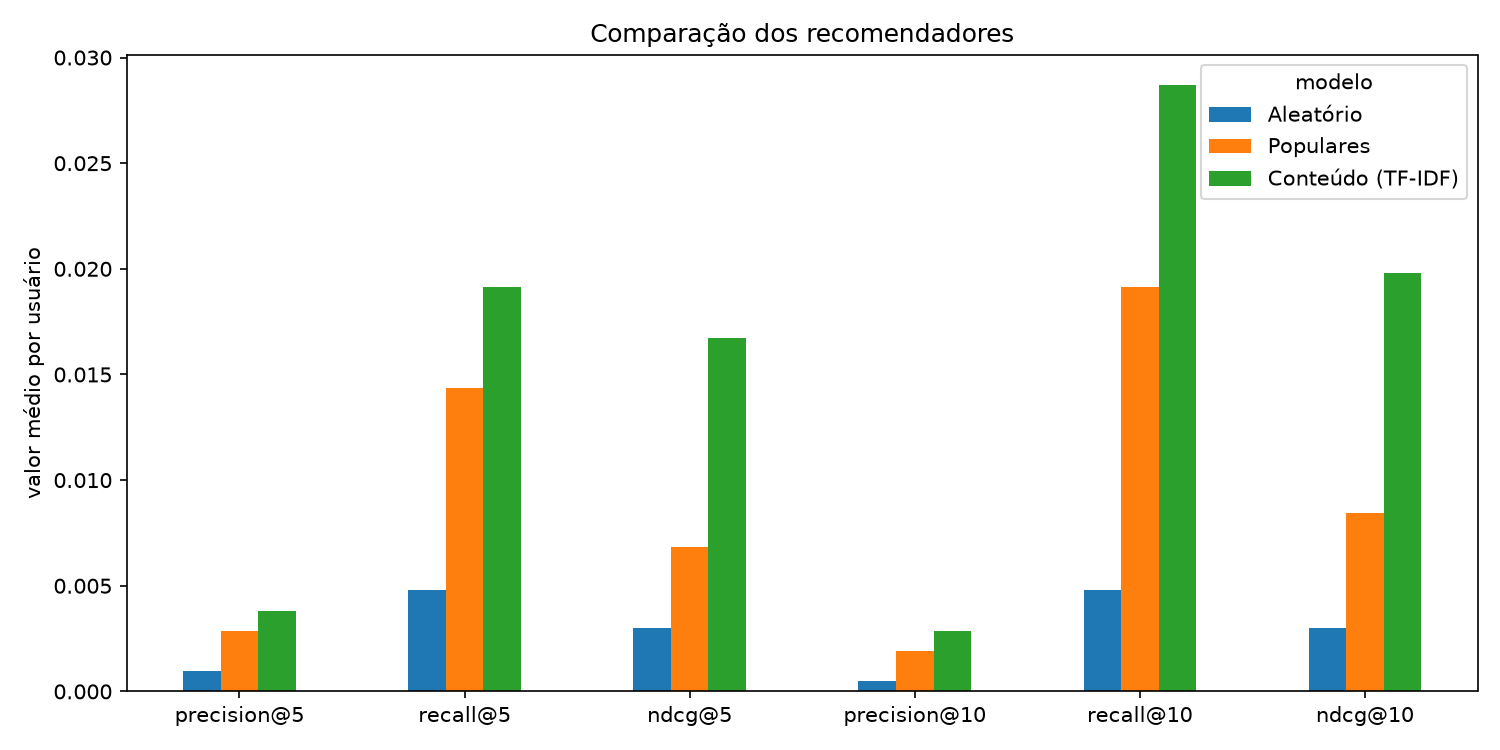
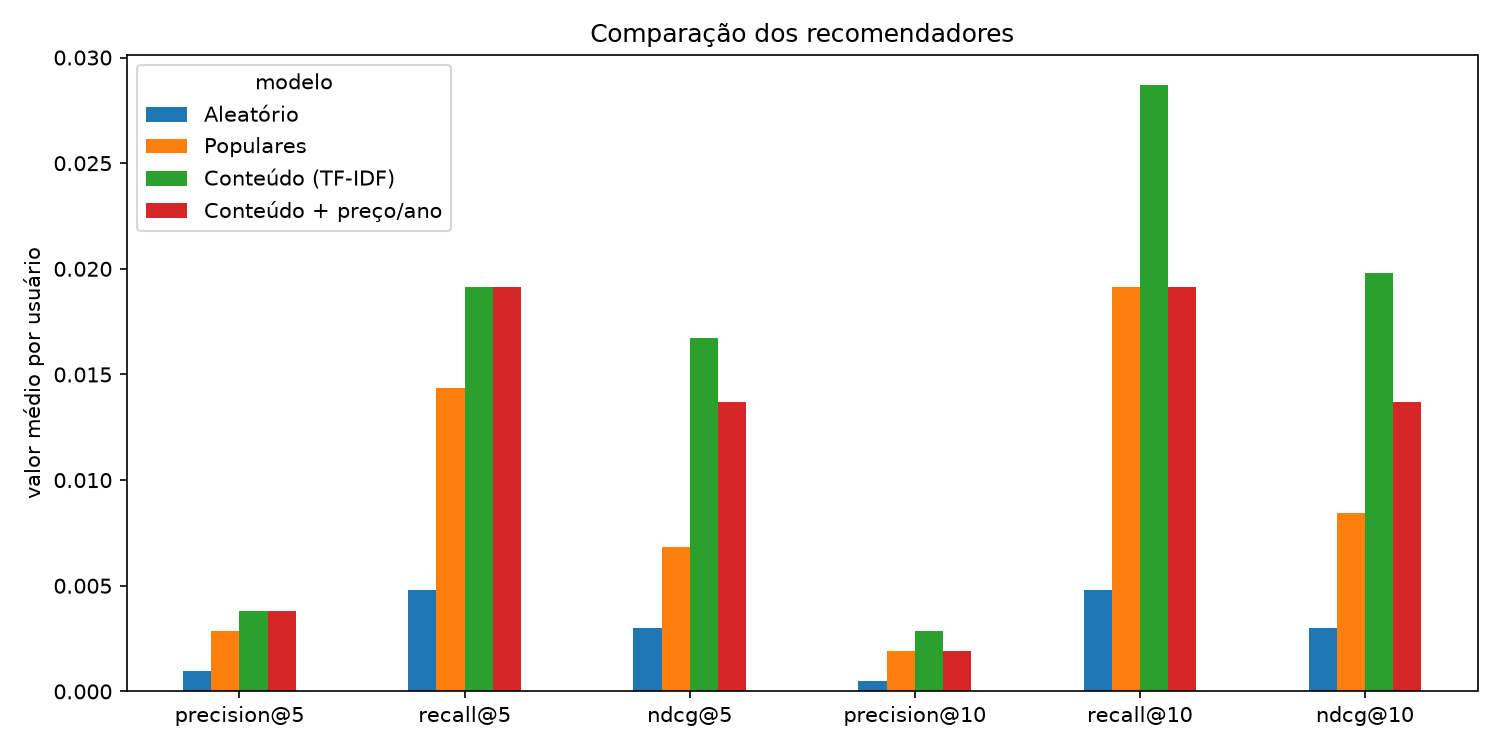
feat - atributos numéricos normalizados (preço e ano) como variante avaliada
- preço (log) e ano padronizados por z-score limitado a ±3, ausentes pela mediana
- peso escolhido em validação tirada do treino (scripts/escolher_peso.py), sem usar o teste
- variante "Conteúdo + preço/ano" entra na tabela e no bootstrap; modelo principal segue só texto e tags
- diversidade medida sempre com a similaridade do modelo principal
- explicação passa a considerar contribuições positivas de pesos negativos
- opção na interface para ligar a variante; testes em test_numericos.py

diff --git a/backend/app/recommender/modelo.py b/backend/app/recommender/modelo.py
@@ -45,6 +45,59 @@ def _termos(jogo):
     return termos
 
 
+# Atributos numéricos do próprio jogo. Nota e nº de avaliações ficam de fora:
+# vêm de outros usuários, e a FBC deve usar apenas características do item.
+ROTULOS_NUMERICOS = {"num:preco": "faixa de preço", "num:ano": "época de lançamento"}
+# O modelo principal usa só texto e tags (peso 0). A variante com preço/ano usa
+# o peso escolhido na validação (subdivisão do treino) por scripts/escolher_peso.py.
+PESO_NUMERICO = 0.0
+PESO_NUMERICO_VALIDADO = 12.0
+LIMITE_Z = 3.0
+
+
+def _ano(data):
+    try:
+        return float(str(data)[:4])
+    except ValueError:
+        return None
+
+
+def _numericos_brutos(jogo):
+    """Valores crus; None indica ausente. O preço usa log por ser muito assimétrico."""
+    preco = jogo.get("price_final")
+    try:
+        preco = math.log1p(max(0.0, float(preco))) if preco not in (None, "") else None
+    except (TypeError, ValueError):
+        preco = None
+    return {"num:preco": preco, "num:ano": _ano(jogo.get("date_release") or "")}
+
+
+def _padronizar(catalogo):
+    """Imputa ausentes com a mediana e aplica z-score limitado a ±LIMITE_Z.
+
+    O z-score é centrado: valores acima e abaixo da média têm sinais opostos,
+    então o cosseno favorece jogos do mesmo lado da média que o perfil, em vez
+    de favorecer sempre os mais caros ou mais novos (como faria um min-max).
+    """
+    brutos = {app_id: _numericos_brutos(jogo) for app_id, jogo in catalogo.items()}
+    padronizados = {app_id: {} for app_id in catalogo}
+    for atributo in ROTULOS_NUMERICOS:
+        presentes = sorted(v[atributo] for v in brutos.values() if v[atributo] is not None)
+        if len(presentes) < 2:
+            continue
+        mediana = presentes[len(presentes) // 2]
+        media = sum(presentes) / len(presentes)
+        desvio = math.sqrt(sum((x - media) ** 2 for x in presentes) / len(presentes))
+        if desvio == 0:
+            continue
+        for app_id, valores in brutos.items():
+            valor = valores[atributo] if valores[atributo] is not None else mediana
+            z = max(-LIMITE_Z, min(LIMITE_Z, (valor - media) / desvio))
+            if z:
+                padronizados[app_id][atributo] = z
+    return padronizados
+
+
 def _produto(a, b):
     if len(a) > len(b):
         a, b = b, a
@@ -52,7 +105,8 @@ def _produto(a, b):
 
 
 class RecomendadorConteudo:
-    def __init__(self, treino=None, catalogo=None, limite_catalogo=8000, ids_obrigatorios=()):
+    def __init__(self, treino=None, catalogo=None, limite_catalogo=8000, ids_obrigatorios=(),
+                 peso_numerico=PESO_NUMERICO):
         obrigatorios = set(treino["app_id"]) if treino is not None else set()
         obrigatorios.update(ids_obrigatorios)
         self.catalogo = catalogo if catalogo is not None else carregar_catalogo(limite_catalogo, obrigatorios)
@@ -71,6 +125,8 @@ class RecomendadorConteudo:
         for termos in contagens.values():
             df.update(termos.keys())
         total = len(contagens)
+        self.peso_numerico = peso_numerico
+        numericos = _padronizar(self.catalogo) if peso_numerico else {}
         self.vetores = {}
         self.indice = defaultdict(list)
         for app_id, termos in contagens.items():
@@ -78,6 +134,10 @@ class RecomendadorConteudo:
                 continue
             vetor = {termo: (1 + math.log(freq)) * (math.log((1 + total) / (1 + df[termo])) + 1)
                      for termo, freq in termos.items()}
+            # Dimensões numéricas entram no mesmo vetor antes da normalização L2,
+            # então o cosseno continua sendo um único produto escalar.
+            for atributo, z in numericos.get(app_id, {}).items():
+                vetor[atributo] = peso_numerico * z
             norma = math.sqrt(sum(peso * peso for peso in vetor.values()))
             vetor = {termo: peso / norma for termo, peso in vetor.items()}
             self.vetores[app_id] = vetor
@@ -118,13 +178,17 @@ class RecomendadorConteudo:
         positivos = [app_id for app_id, gostou in preferencias if gostou and app_id in self.vetores]
         for score, app_id in melhores:
             vetor = self.vetores[app_id]
-            contrib = sorted(((peso * vetor[termo], termo) for termo, peso in perfil.items()
-                              if peso > 0 and termo in vetor), reverse=True)
+            # Contribuição de cada termo ao cosseno; só as positivas explicam a recomendação.
+            contrib = sorted((par for par in ((peso * vetor[termo], termo) for termo, peso in perfil.items()
+                                              if termo in vetor) if par[0] > 0), reverse=True)
             tags = [self.tag_labels.get(termo, termo[4:]) for _, termo in contrib if termo.startswith("tag:")][:3]
             parecido = max(positivos, key=lambda item: self.similaridade(item, app_id)) if positivos else None
             resultados.append({"app_id": app_id, "score": round(score, 4),
                                "tags_em_comum": tags,
-                               "termos_em_comum": [termo for _, termo in contrib if not termo.startswith("tag:")][:3],
+                               "termos_em_comum": [termo for _, termo in contrib
+                                                   if not termo.startswith(("tag:", "num:"))][:3],
+                               "atributos_em_comum": [ROTULOS_NUMERICOS[termo] for _, termo in contrib
+                                                      if termo in ROTULOS_NUMERICOS],
                                "parecido_com": self.catalogo[parecido]["title"] if parecido else None,
                                **self.catalogo[app_id]})
         return resultados

diff --git a/scripts/escolher_peso.py b/scripts/escolher_peso.py
@@ -1,0 +1,65 @@
+"""Escolhe o peso dos atributos numéricos (preço e ano) sem olhar o teste.
+
+O treino do split temporal é dividido de novo, com o mesmo protocolo, em
+subtreino e validação. Cada peso é avaliado só na validação; o conjunto de
+teste usado em run_evaluation.py nunca entra nesta escolha.
+
+Uso: python scripts/escolher_peso.py [--pesos 0 3 5 8 12 16 24 32]
+Saída: results/escolha_peso.csv/.md
+"""
+
+import argparse
+from pathlib import Path
+import sys
+
+import pandas as pd
+
+RAIZ = Path(__file__).resolve().parent.parent
+sys.path.insert(0, str(RAIZ))
+
+from backend.app.evaluation.evaluator import avaliar  # noqa: E402
+from backend.app.evaluation.split import split_temporal  # noqa: E402
+from backend.app.recommender.catalogo import carregar_catalogo  # noqa: E402
+from backend.app.recommender.modelo import RecomendadorConteudo  # noqa: E402
+
+METRICAS = ["precision@10", "recall@10", "ndcg@10", "hit@10", "cobertura@10"]
+
+
+def main():
+    parser = argparse.ArgumentParser(description=__doc__, formatter_class=argparse.RawDescriptionHelpFormatter)
+    parser.add_argument("--pesos", type=float, nargs="+", default=[0, 3, 5, 8, 12, 16, 24, 32])
+    args = parser.parse_args()
+
+    caminho = RAIZ / "data" / "processed" / "interacoes.csv"
+    if not caminho.exists():
+        sys.exit("Execute scripts/prepare_data.py primeiro")
+    df = pd.read_csv(caminho, parse_dates=["date"])
+    catalogo = carregar_catalogo(8000, df["app_id"].unique())
+    df = df[df["app_id"].isin(catalogo)].reset_index(drop=True)
+
+    treino, _ = split_temporal(df)            # o teste é descartado aqui
+    subtreino, validacao = split_temporal(treino)
+    print(f"Subtreino: {len(subtreino)} linhas | Validação: {len(validacao)} linhas")
+
+    linhas = []
+    for peso in args.pesos:
+        modelo = RecomendadorConteudo(subtreino, catalogo=catalogo, peso_numerico=peso)
+        r = avaliar(modelo, subtreino, validacao, tamanho_catalogo=len(catalogo))
+        linhas.append({"peso_numerico": peso, **{m: r[m] for m in METRICAS},
+                       "usuarios_avaliados": r["usuarios_avaliados"]})
+        print(f"peso={peso:g}: " + ", ".join(f"{m}={r[m]:.4f}" for m in METRICAS))
+
+    tabela = pd.DataFrame(linhas)
+    pasta = RAIZ / "results"
+    pasta.mkdir(exist_ok=True)
+    tabela.to_csv(pasta / "escolha_peso.csv", index=False)
+    cabecalho = "| " + " | ".join(tabela.columns) + " |\n|" + " --- |" * len(tabela.columns) + "\n"
+    corpo = "".join("| " + " | ".join(f"{v:.4f}" if isinstance(v, float) else str(v) for v in linha) + " |\n"
+                    for linha in tabela.itertuples(index=False))
+    (pasta / "escolha_peso.md").write_text(cabecalho + corpo, encoding="utf-8")
+    melhor = tabela.sort_values(["ndcg@10", "peso_numerico"], ascending=[False, True]).iloc[0]
+    print(f"\nMaior nDCG@10 na validação: peso {melhor['peso_numerico']:g}")
+
+
+if __name__ == "__main__":
+    main()

diff --git a/scripts/run_evaluation.py b/scripts/run_evaluation.py
@@ -33,6 +33,7 @@ from backend.app.evaluation.split import split_leave_one_out, split_temporal  # 
 
 COLUNAS = ["user_id", "app_id", "date", "is_recommended", "hours"]
 TAMANHO_PEDACO = 2_000_000
+VARIANTE = "Conteúdo + preço/ano"
 
 
 def amostrar_do_bruto(caminho, n_usuarios, min_interacoes, seed):
@@ -84,7 +85,7 @@ def carregar_interacoes(args):
 
 
 def montar_recomendadores(treino, seed, catalogo):
-    from backend.app.recommender.modelo import RecomendadorConteudo
+    from backend.app.recommender.modelo import PESO_NUMERICO_VALIDADO, RecomendadorConteudo
 
     modelo = RecomendadorConteudo(treino, catalogo=catalogo)
     ids = sorted(catalogo)
@@ -92,7 +93,11 @@ def montar_recomendadores(treino, seed, catalogo):
         "Aleatório": RecomendadorAleatorio(ids, seed=seed),
         "Populares": RecomendadorPopulares(treino),
         "Conteúdo (TF-IDF)": modelo,
+        # Variante: mesmo modelo com preço e ano normalizados (peso da validação).
+        VARIANTE: RecomendadorConteudo(treino, catalogo=catalogo, peso_numerico=PESO_NUMERICO_VALIDADO),
     }
+    # A diversidade usa sempre a similaridade do modelo principal (só texto),
+    # para não depender do recomendador que está sendo medido.
     return recomendadores, modelo.similaridade, len(ids)
 
 
@@ -101,8 +106,12 @@ def tabela_markdown(tabela):
     linhas = ["| " + " | ".join(colunas) + " |", "|" + " --- |" * len(colunas)]
     for modelo, valores in tabela.iterrows():
         celulas = [str(modelo)]
-        for v in valores:
-            celulas.append(f"{v:.4f}" if isinstance(v, float) else str(v))
+        for coluna, v in valores.items():
+            inteiro = coluna == "usuarios_avaliados" or (isinstance(v, float) and coluna == "segundos")
+            if inteiro and isinstance(v, float):
+                celulas.append(f"{v:g}")
+            else:
+                celulas.append(f"{v:.4f}" if isinstance(v, float) else str(v))
         linhas.append("| " + " | ".join(celulas) + " |")
     return "\n".join(linhas) + "\n"
 
@@ -168,7 +177,7 @@ def main():
 
     k = max(args.ks)
     significancia = comparar_pares(
-        por_usuario, "Conteúdo (TF-IDF)", ["Populares", "Aleatório"],
+        por_usuario, "Conteúdo (TF-IDF)", ["Populares", "Aleatório", VARIANTE],
         [f"recall@{k}", f"ndcg@{k}", f"hit@{k}"], n_amostras=args.bootstrap, seed=args.seed)
     base_sig = pasta / f"significancia_{args.split}"
     significancia.to_csv(base_sig.with_suffix(".csv"), index=False)

diff --git a/frontend/app.py b/frontend/app.py
@@ -10,7 +10,7 @@ import streamlit as st
 
 RAIZ = Path(__file__).resolve().parent.parent
 sys.path.insert(0, str(RAIZ))
-from backend.app.recommender.modelo import RecomendadorConteudo  # noqa: E402
+from backend.app.recommender.modelo import PESO_NUMERICO_VALIDADO, RecomendadorConteudo  # noqa: E402
 
 
 st.set_page_config(page_title="Steam Style · Descubra seu próximo jogo", page_icon="🎮", layout="wide")
@@ -54,14 +54,18 @@ h1,h2,h3 { font-family: 'Space Grotesk',sans-serif; letter-spacing: -.035em; }
 
 
 @st.cache_resource(show_spinner="Preparando o catálogo e os vetores dos jogos...")
-def carregar_modelo():
+def carregar_modelo(peso_numerico):
     caminho = RAIZ / "data" / "processed" / "interacoes.csv"
     treino = pd.read_csv(caminho) if caminho.exists() else None
-    return RecomendadorConteudo(treino)
+    return RecomendadorConteudo(treino, peso_numerico=peso_numerico)
 
 
+usar_numericos = st.sidebar.toggle(
+    "Considerar preço e época de lançamento", value=False,
+    help="Variante experimental: soma preço (log) e ano, padronizados por z-score, ao vetor TF-IDF. "
+         "Na avaliação offline não superou o modelo só com texto.")
 try:
-    rec = carregar_modelo()
+    rec = carregar_modelo(PESO_NUMERICO_VALIDADO if usar_numericos else 0.0)
 except (FileNotFoundError, ValueError) as erro:
     st.error(str(erro))
     st.stop()
@@ -119,6 +123,8 @@ with direita:
             tags = "".join(f'<span class="tag">{escape(tag)}</span>' for tag in jogo["tags"][:4])
             razoes = jogo["tags_em_comum"] or jogo["termos_em_comum"]
             motivo = ", ".join(razoes) if razoes else "descrição semelhante"
+            if jogo.get("atributos_em_comum"):
+                motivo += " · também " + " e ".join(jogo["atributos_em_comum"]) + " parecidos"
             parecido = f' · Lembra <strong>{escape(jogo["parecido_com"])}</strong>' if jogo["parecido_com"] else ""
             descricao = escape(jogo["description"][:145].strip())
             if len(jogo["description"]) > 145:

diff --git a/backend/tests/test_numericos.py b/backend/tests/test_numericos.py
@@ -1,0 +1,38 @@
+"""Atributos numéricos: imputação de ausentes, z-score e efeito no ranking."""
+
+import math
+
+from backend.app.recommender.modelo import (LIMITE_Z, PESO_NUMERICO_VALIDADO, RecomendadorConteudo,
+                                            _padronizar)
+
+
+def catalogo():
+    base = {"description": "space strategy fleets", "tags": ["Strategy", "Space"]}
+    return {
+        1: {"app_id": 1, "title": "Barato antigo", "price_final": 2.0, "date_release": "2005-01-01", **base},
+        2: {"app_id": 2, "title": "Barato antigo 2", "price_final": 3.0, "date_release": "2006-06-01", **base},
+        3: {"app_id": 3, "title": "Caro novo", "price_final": 60.0, "date_release": "2022-03-01", **base},
+        4: {"app_id": 4, "title": "Sem dados", "price_final": "", "date_release": "", **base},
+    }
+
+
+def test_ausente_recebe_mediana_e_z_fica_limitado():
+    z = _padronizar(catalogo())
+    assert set(z) == {1, 2, 3, 4}
+    valores = [v for item in z.values() for v in item.values()]
+    assert all(abs(v) <= LIMITE_Z and not math.isnan(v) for v in valores)
+    # o item sem dados recebe a mediana e não puxa para nenhum extremo
+    assert abs(z[4].get("num:ano", 0)) < abs(z[3]["num:ano"])
+
+
+def test_mesmo_texto_desempata_por_preco_e_epoca():
+    rec = RecomendadorConteudo(catalogo=catalogo(), peso_numerico=PESO_NUMERICO_VALIDADO)
+    assert rec.similaridade(1, 2) > rec.similaridade(1, 3)
+    resultado = rec.recomendar_preferencias([(1, True)], 3)
+    assert resultado[0]["app_id"] == 2
+    assert resultado[0]["atributos_em_comum"]
+
+
+def test_modelo_principal_nao_usa_numericos():
+    rec = RecomendadorConteudo(catalogo=catalogo())
+    assert not any(t.startswith("num:") for v in rec.vetores.values() for t in v)

diff --git a/docs/avaliacao.md b/docs/avaliacao.md
@@ -16,7 +16,7 @@ O perfil e o ranking de popularidade usam apenas treino. Um jogo relevante é aq
 
 O modelo de conteúdo tem os maiores Recall@10 e nDCG@10 entre os três métodos (a vantagem sobre populares não é estatisticamente significativa; ver a seção seguinte) e recomenda uma parcela maior do catálogo que o de populares. Os números absolutos são baixos: com mais de oito mil candidatos e poucos jogos positivos futuros por usuário, o Top-10 raramente contém o jogo reservado. A diversidade do modelo é menor que a dos baselines porque itens parecidos tendem a aparecer juntos; isto é esperado numa filtragem baseada em conteúdo e mostra superespecialização.
 
-Os arquivos completos são [tabela CSV](../results/metricas_temporal.csv), [tabela Markdown](../results/metricas_temporal.md), [gráfico](../results/metricas_temporal.png) e [três exemplos qualitativos](../results/exemplos_qualitativos.md). Reproduza com `python scripts/prepare_data.py --usuarios 500`, `python scripts/run_evaluation.py` e `python scripts/qualitative_examples.py`.
+Os arquivos completos são [tabela CSV](../results/metricas_temporal.csv), [tabela Markdown](../results/metricas_temporal.md), [gráfico](../results/metricas_temporal.png) e [três exemplos qualitativos](../results/exemplos_qualitativos.md). Reproduza tudo com `python scripts/reproduzir.py`.
 
 ## Significância estatística
 
@@ -44,6 +44,19 @@ Para checar se a conclusão depende do split, repetimos a avaliação reservando
 | Conteúdo (TF-IDF) | 0,0029 | 0,0287 | 0,0198 | 0,0287 | 0,1370 | 0,6985 |
 
 A ordem dos modelos se repete: conteúdo > populares > aleatório em acerto, populares com cobertura quase nula e conteúdo com a menor diversidade. Os acertos são ainda mais raros (6 usuários do conteúdo contra 4 dos populares), então nenhuma diferença contra populares é significativa (nDCG@10: +0,0113, IC 95% [−0,0068; 0,0321], p = 0,24). Contra o aleatório, o nDCG@10 fica no limite (p = 0,050) e Recall/Hit@10 não atingem 5% (p = 0,073). Tabelas completas em [`metricas_loo.md`](../results/metricas_loo.md) e [`significancia_loo.md`](../results/significancia_loo.md).
+
+## Variante com atributos numéricos
+
+Testamos se preço e ano de lançamento ajudam. Os dois entram no vetor do jogo como dimensões extras, com valores ausentes imputados pela mediana, log no preço e z-score limitado a ±3 (detalhes no README). O peso dessas dimensões foi escolhido **sem usar o teste**: `scripts/escolher_peso.py` divide o treino do split temporal de novo, com o mesmo protocolo, em subtreino e validação (144 usuários avaliados), e compara pesos de 0 a 32. O maior nDCG@10 na validação ficou no peso 12 ([`results/escolha_peso.md`](../results/escolha_peso.md)).
+
+| Split | Modelo | R@10 | nDCG@10 | Hit@10 | Cobertura@10 | Diversidade@10 |
+| --- | --- | ---: | ---: | ---: | ---: | ---: |
+| Temporal | Conteúdo (TF-IDF) | 0,0358 | 0,0265 | 0,0541 | 0,1219 | 0,6992 |
+| Temporal | Conteúdo + preço/ano | 0,0241 | 0,0190 | 0,0432 | 0,1118 | 0,7469 |
+| Leave-one-out | Conteúdo (TF-IDF) | 0,0287 | 0,0198 | 0,0287 | 0,1370 | 0,6985 |
+| Leave-one-out | Conteúdo + preço/ano | 0,0191 | 0,0137 | 0,0191 | 0,1252 | 0,7443 |
+
+No teste, a variante **não confirmou** o ganho da validação: perde em acerto nos dois splits, embora a diferença não seja significativa (temporal, nDCG@10: −0,0075, IC 95% [−0,0167; 0,0000], p ≈ 0,05). Na validação, a vantagem do peso 12 correspondia a uns dois usuários a mais com acerto entre 144, ou seja, estava dentro do ruído. Em troca, a variante aumenta a diversidade intra-lista (0,70 → 0,75), porque preço e época puxam jogos de gêneros diferentes que têm perfil comercial parecido. Mantivemos o modelo original, só com texto e tags, como principal: ele já era o modelo do trabalho antes do experimento, e trocar com base no teste seria vazamento. A variante continua disponível na interface para demonstração.
 
 ## Leitura qualitativa
 

diff --git a/results/metricas_loo.md b/results/metricas_loo.md
@@ -1,5 +1,6 @@
 | modelo | precision@5 | recall@5 | ndcg@5 | hit@5 | precision@10 | recall@10 | ndcg@10 | hit@10 | cobertura@10 | diversidade@10 | usuarios_avaliados | segundos |
 | --- | --- | --- | --- | --- | --- | --- | --- | --- | --- | --- | --- | --- |
-| Aleatório | 0.0010 | 0.0048 | 0.0030 | 0.0048 | 0.0005 | 0.0048 | 0.0030 | 0.0048 | 0.2256 | 0.9494 | 209.0000 | 0.1000 |
-| Populares | 0.0029 | 0.0144 | 0.0068 | 0.0144 | 0.0019 | 0.0191 | 0.0084 | 0.0191 | 0.0024 | 0.8754 | 209.0000 | 0.0300 |
-| Conteúdo (TF-IDF) | 0.0038 | 0.0191 | 0.0167 | 0.0191 | 0.0029 | 0.0287 | 0.0198 | 0.0287 | 0.1370 | 0.6985 | 209.0000 | 13.4000 |
+| Aleatório | 0.0010 | 0.0048 | 0.0030 | 0.0048 | 0.0005 | 0.0048 | 0.0030 | 0.0048 | 0.2256 | 0.9494 | 209 | 0.1 |
+| Populares | 0.0029 | 0.0144 | 0.0068 | 0.0144 | 0.0019 | 0.0191 | 0.0084 | 0.0191 | 0.0024 | 0.8754 | 209 | 0.03 |
+| Conteúdo (TF-IDF) | 0.0038 | 0.0191 | 0.0167 | 0.0191 | 0.0029 | 0.0287 | 0.0198 | 0.0287 | 0.1370 | 0.6985 | 209 | 5.64 |
+| Conteúdo + preço/ano | 0.0038 | 0.0191 | 0.0137 | 0.0191 | 0.0019 | 0.0191 | 0.0137 | 0.0191 | 0.1252 | 0.7443 | 209 | 6.38 |

diff --git a/results/metricas_temporal.md b/results/metricas_temporal.md
@@ -1,5 +1,6 @@
 | modelo | precision@5 | recall@5 | ndcg@5 | hit@5 | precision@10 | recall@10 | ndcg@10 | hit@10 | cobertura@10 | diversidade@10 | usuarios_avaliados | segundos |
 | --- | --- | --- | --- | --- | --- | --- | --- | --- | --- | --- | --- | --- |
-| Aleatório | 0.0000 | 0.0000 | 0.0000 | 0.0000 | 0.0000 | 0.0000 | 0.0000 | 0.0000 | 0.2004 | 0.9472 | 185.0000 | 0.0700 |
-| Populares | 0.0054 | 0.0149 | 0.0075 | 0.0270 | 0.0032 | 0.0176 | 0.0085 | 0.0324 | 0.0024 | 0.8540 | 185.0000 | 0.0200 |
-| Conteúdo (TF-IDF) | 0.0065 | 0.0221 | 0.0217 | 0.0324 | 0.0054 | 0.0358 | 0.0265 | 0.0541 | 0.1219 | 0.6992 | 185.0000 | 11.3700 |
+| Aleatório | 0.0000 | 0.0000 | 0.0000 | 0.0000 | 0.0000 | 0.0000 | 0.0000 | 0.0000 | 0.2004 | 0.9472 | 185 | 0.08 |
+| Populares | 0.0054 | 0.0149 | 0.0075 | 0.0270 | 0.0032 | 0.0176 | 0.0085 | 0.0324 | 0.0024 | 0.8540 | 185 | 0.03 |
+| Conteúdo (TF-IDF) | 0.0065 | 0.0221 | 0.0217 | 0.0324 | 0.0054 | 0.0358 | 0.0265 | 0.0541 | 0.1219 | 0.6992 | 185 | 4.81 |
+| Conteúdo + preço/ano | 0.0076 | 0.0232 | 0.0192 | 0.0378 | 0.0043 | 0.0241 | 0.0190 | 0.0432 | 0.1118 | 0.7469 | 185 | 5.5 |

diff --git a/results/escolha_peso.md b/results/escolha_peso.md
@@ -1,0 +1,10 @@
+| peso_numerico | precision@10 | recall@10 | ndcg@10 | hit@10 | cobertura@10 | usuarios_avaliados |
+| --- | --- | --- | --- | --- | --- | --- |
+| 0 | 0.0076 | 0.0346 | 0.0239 | 0.0694 | 0.1045 | 144 |
+| 3 | 0.0076 | 0.0346 | 0.0240 | 0.0694 | 0.1046 | 144 |
+| 5 | 0.0076 | 0.0367 | 0.0258 | 0.0694 | 0.1034 | 144 |
+| 8 | 0.0076 | 0.0419 | 0.0273 | 0.0694 | 0.1017 | 144 |
+| 12 | 0.0090 | 0.0490 | 0.0299 | 0.0833 | 0.0977 | 144 |
+| 16 | 0.0083 | 0.0456 | 0.0288 | 0.0764 | 0.0921 | 144 |
+| 24 | 0.0062 | 0.0448 | 0.0257 | 0.0625 | 0.0853 | 144 |
+| 32 | 0.0042 | 0.0275 | 0.0163 | 0.0417 | 0.0825 | 144 |

diff --git a/results/significancia_loo.md b/results/significancia_loo.md
@@ -6,3 +6,6 @@
 | Conteúdo (TF-IDF) vs Aleatório | recall@10 | 0.0239 | 0.0000 | 0.0478 | 0.0732 |
 | Conteúdo (TF-IDF) vs Aleatório | ndcg@10 | 0.0168 | 0.0000 | 0.0367 | 0.0498 |
 | Conteúdo (TF-IDF) vs Aleatório | hit@10 | 0.0239 | 0.0000 | 0.0478 | 0.0732 |
+| Conteúdo (TF-IDF) vs Conteúdo + preço/ano | recall@10 | 0.0096 | -0.0096 | 0.0287 | 0.4598 |
+| Conteúdo (TF-IDF) vs Conteúdo + preço/ano | ndcg@10 | 0.0061 | -0.0025 | 0.0161 | 0.1788 |
+| Conteúdo (TF-IDF) vs Conteúdo + preço/ano | hit@10 | 0.0096 | -0.0096 | 0.0287 | 0.4598 |

diff --git a/results/significancia_temporal.md b/results/significancia_temporal.md
@@ -6,3 +6,6 @@
 | Conteúdo (TF-IDF) vs Aleatório | recall@10 | 0.0358 | 0.0135 | 0.0622 | 0.0000 |
 | Conteúdo (TF-IDF) vs Aleatório | ndcg@10 | 0.0265 | 0.0090 | 0.0485 | 0.0000 |
 | Conteúdo (TF-IDF) vs Aleatório | hit@10 | 0.0541 | 0.0216 | 0.0865 | 0.0000 |
+| Conteúdo (TF-IDF) vs Conteúdo + preço/ano | recall@10 | 0.0117 | -0.0009 | 0.0288 | 0.1396 |
+| Conteúdo (TF-IDF) vs Conteúdo + preço/ano | ndcg@10 | 0.0075 | -0.0000 | 0.0167 | 0.0504 |
+| Conteúdo (TF-IDF) vs Conteúdo + preço/ano | hit@10 | 0.0108 | -0.0108 | 0.0324 | 0.4542 |
